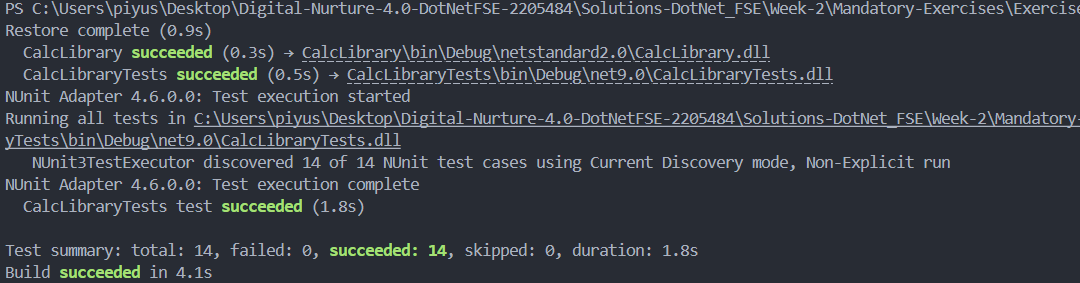
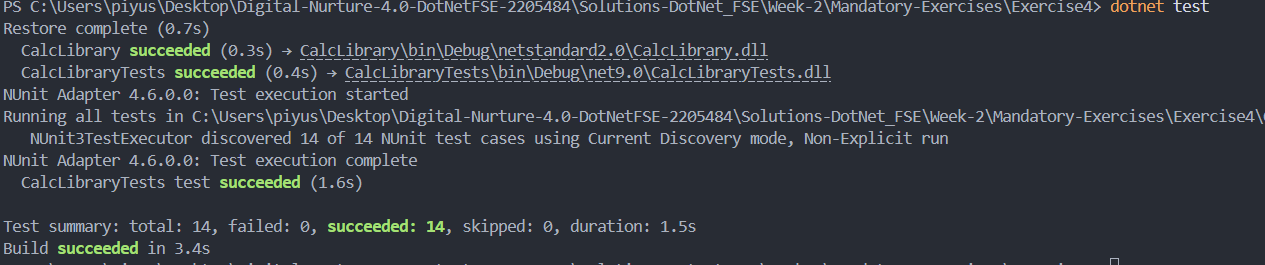
gitignore and exercise4: namespace and declaration bug solved

diff --git a/Solutions-DotNet_FSE/Week-2/Mandatory-Exercises/Exercise4/CalcLibraryTests/CalculatorTest.cs b/Solutions-DotNet_FSE/Week-2/Mandatory-Exercises/Exercise4/CalcLibraryTests/CalculatorTest.cs
@@ -1,4 +1,7 @@
-namespace CalcLibraryTests
+using NUnit.Framework;
+using CalcLibrary;
+
+namespace CalcLibraryTests
 {
     [TestFixture]
     public class CalculatorTests
